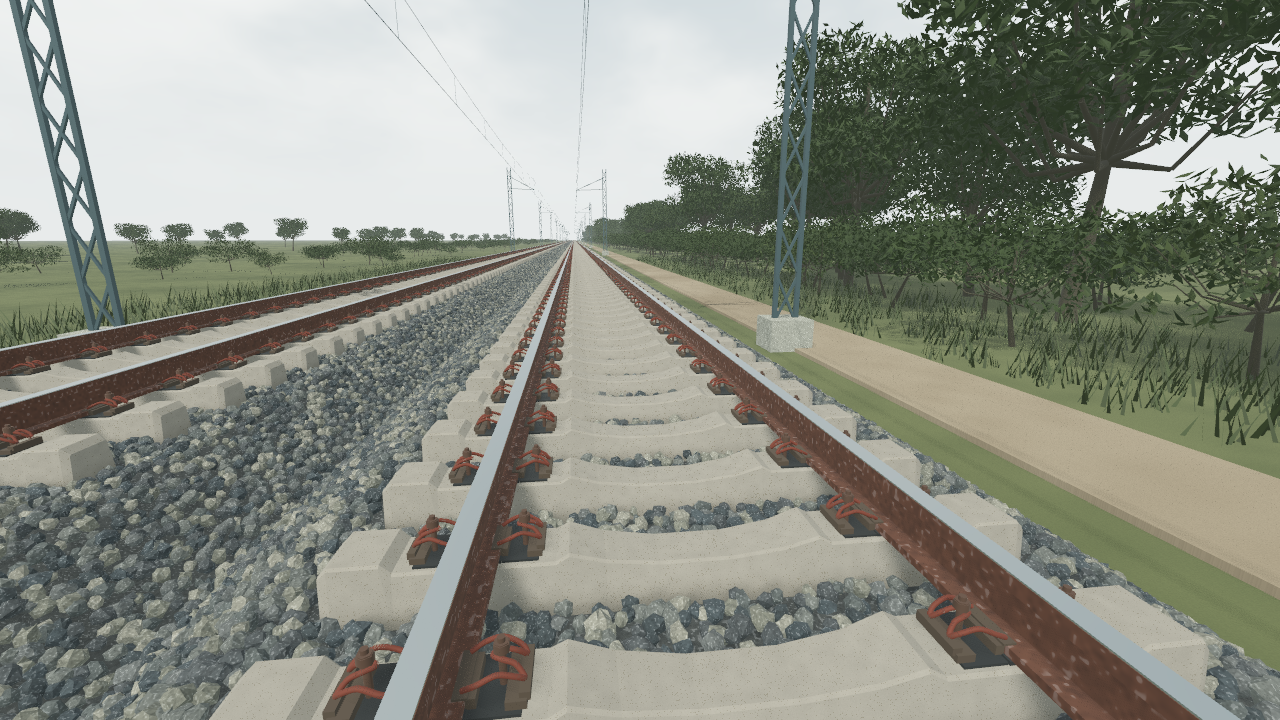
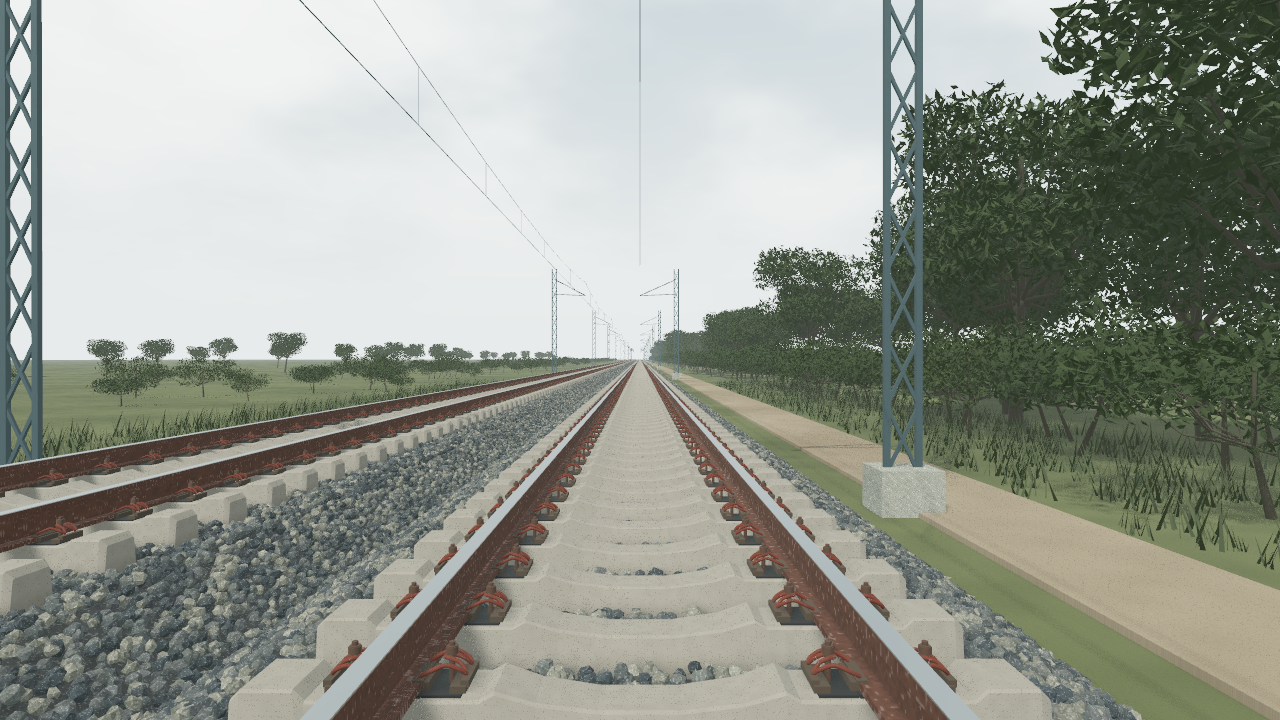
update the travel2

diff --git a/scenes/travel/README.md b/scenes/travel/README.md
@@ -1,6 +1,6 @@
 # Travel 路堑铁路
 
-参考 OIP.webp 构建的独立静态场景：1 km 双线无砟轨道、排水沟、电缆槽、三层拱形骨架护坡、边坡踏步和坡顶植被。默认画面包含左线静置列车，无接触网，与参考照片的线路外观一致。
+参考 OIP.webp 构建的独立静态场景：1 km 双线无砟轨道、排水沟、电缆槽、三层拱形骨架护坡、边坡踏步和坡顶植被。默认画面包含左线四节列车、双线接触网及第二节车的单臂受电弓，支持行程滑块移动。
 
 启动：
 
@@ -13,6 +13,8 @@
 
 - 1：参考图俯视机位
 - 2：列车近景
+- 3：弓网近景（随列车移动）
+- P：升弓/降弓，带连续折叠动画
 - F1：显示/隐藏操作说明
 - Esc：返回场景菜单
 
@@ -23,3 +25,6 @@ travel 不再依赖 E:/game_project 或 -ExternalProject。train_car.tscn 使用
 承轨台和扣件在 outdoors_track.gd 中按照片轮廓生成：台座采用低矮坡面、薄底沿和倒角，底面 0.64 × 0.38 m，混凝土高 0.126 m，顶部承载面 0.414 × 0.29 m，纵向间距 0.65 m。尺寸为外观近似，并非照片测量值。每套扣件含 14 mm 橡胶垫板、两侧挡肩、深灰绝缘块、垫圈、六角螺母、螺栓端部和连续圆弧弹条。轨底位于板面以上 0.14 m；钢轨高 0.16 m，轨顶为 0.46 m，列车轮底同步对齐。轨头内侧间距 1.435 m，中心距 1.505 m。台座与扣件使用共享网格、分块 MultiMesh 和距离裁剪。
 
 直接运行时附加用户参数 --travel-capture 会生成 preview.png 和 track_detail.png 并退出。
+
+## 弓网系统
+双线各 21 根支柱，50 m 跨距，包含腕臂、绝缘子、承力索、吊弦和横向 ±0.18 m 的之字形接触线。支柱布置在排水沟外、边坡脚以内；接触线中心距轨顶 6.1 m。受电弓固定在第二节车顶，依据实际车体包围盒安装，碳滑板顶面贴合可见导线下表面；采用双连杆解析几何实现升降。仅为几何与运动展示，不模拟电气供电或弓网接触力。--demo-smoke-test 同时检查全行程接触位置、降弓收拢和升弓过渡。--pantograph-capture 导出 pantograph_detail.png。旧款 AMD R5 M330 自动禁用存在驱动黑块问题的 SSAO。
